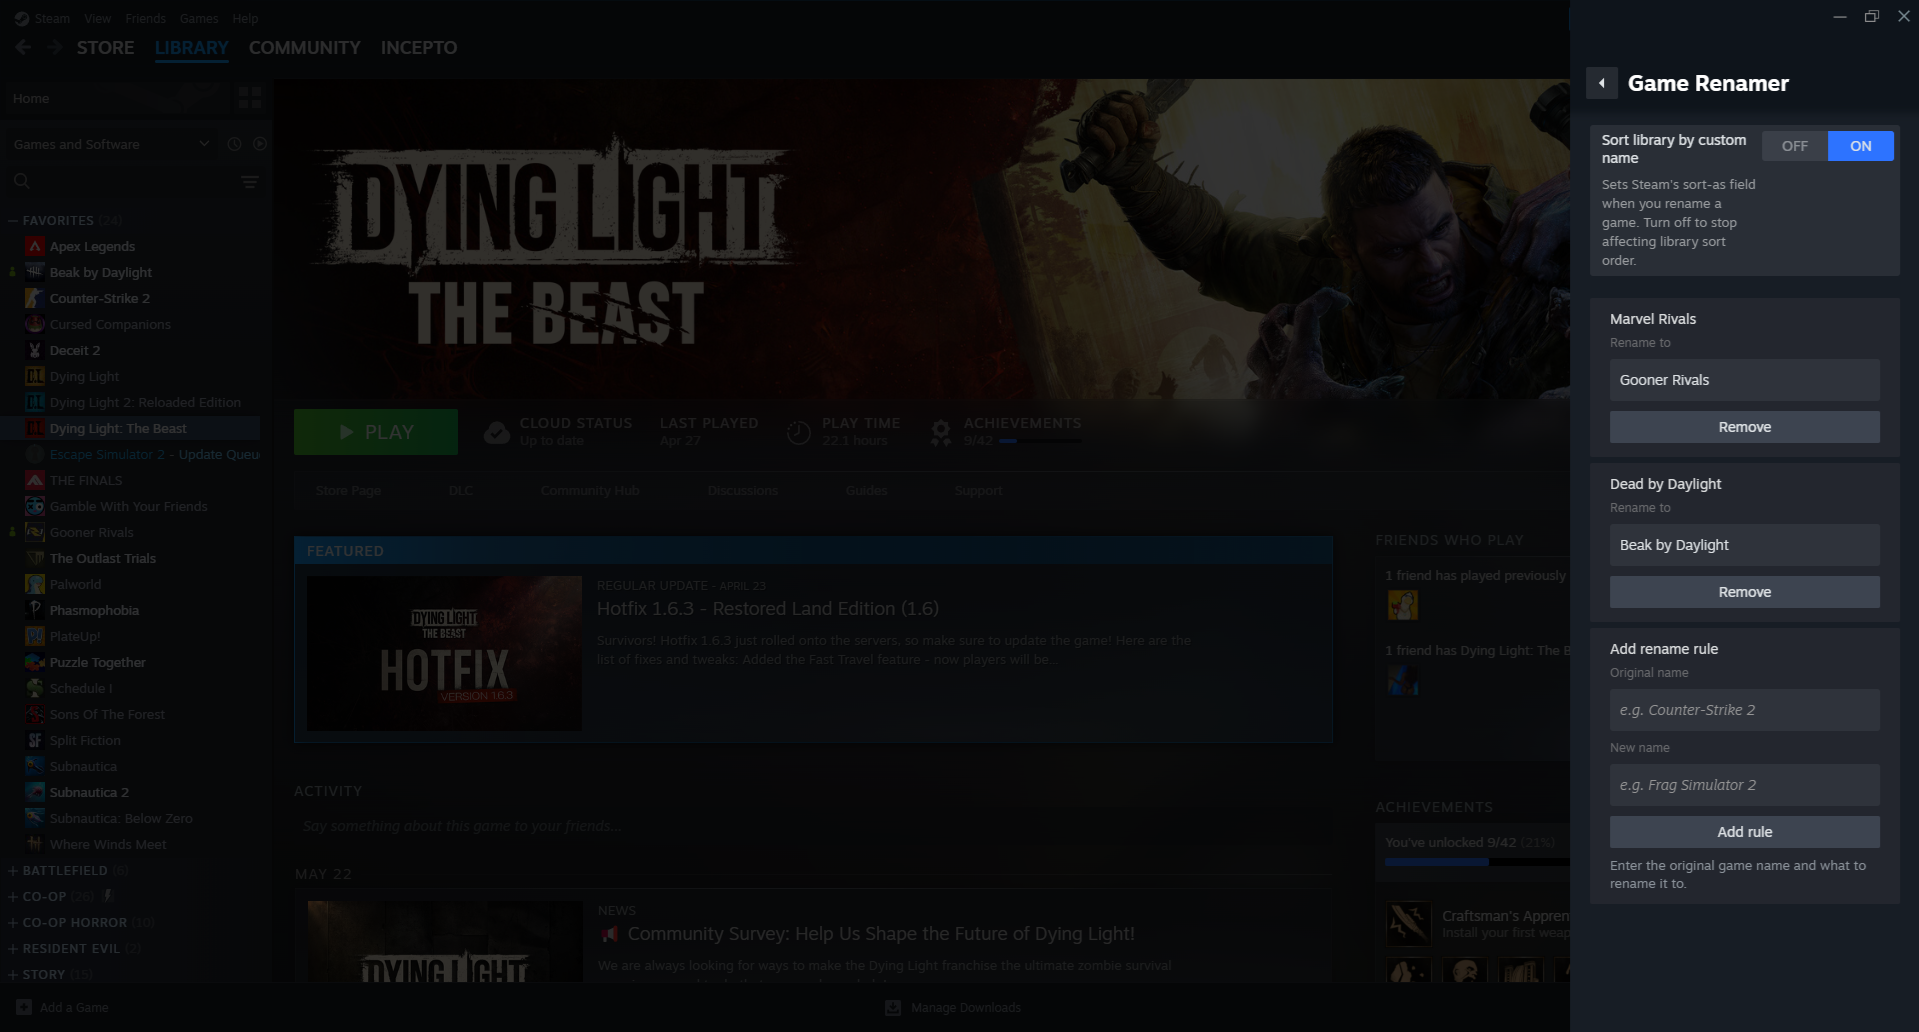
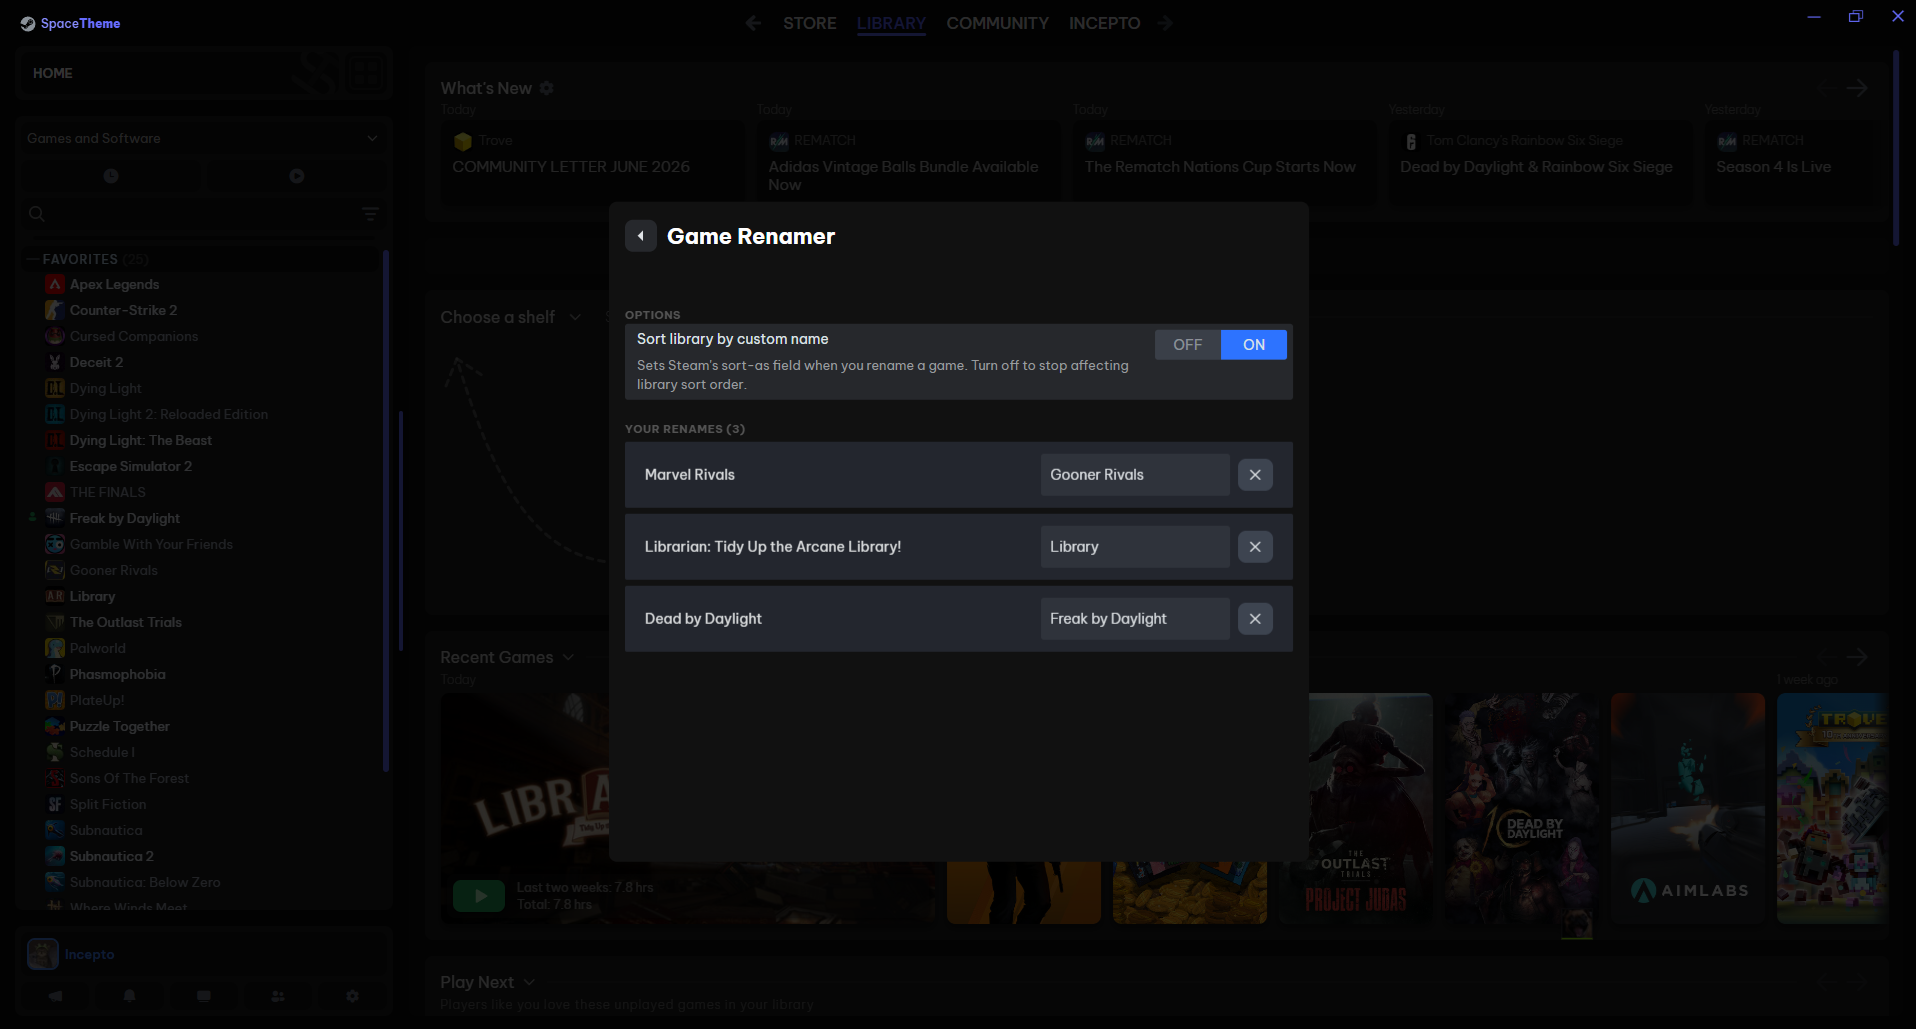
Multi language steam support + config change

diff --git a/frontend/contextMenu.tsx b/frontend/contextMenu.tsx
@@ -53,49 +53,66 @@ export const RenameModal = ({
 
 // ─── Context menu helpers ─────────────────────────────────────────────────────
 
-/**
- * Finds the "Properties…" text leaf inside a newly added DOM node.
- * Returns null if the node isn't a game context menu.
- */
-function findPropertiesLabel(root: HTMLElement): HTMLElement | null {
-    const isProperties = (text: string) => /^properties(\.\.\.|…)?$/i.test(text);
-
-    if (root.children.length === 0 && isProperties(root.textContent?.trim() ?? "")) {
-        return root;
-    }
-
-    for (const el of Array.from(root.querySelectorAll("*")) as HTMLElement[]) {
-        if (el.children.length === 0 && isProperties(el.textContent?.trim() ?? "")) {
-            return el;
-        }
-    }
-
-    return null;
+/** The element's React fiber, or null. */
+function getReactFiber(el: Element): any {
+    const key = Object.keys(el).find(k => k.startsWith("__reactFiber$"));
+    return key ? (el as any)[key] : null;
 }
 
 /**
- * Climbs from `label` to the element that represents the single clickable row.
+ * Steam's localized label for the game context menu's "Manage" submenu.
  *
- * Steam nests labels inside several span wrappers, so `label` is often a deep leaf.
- * The actual row is the first ancestor whose parent contains multiple sibling rows
- * (Play, Manage, Properties, …). Stopping too early would cause the entire menu
- * to be cloned instead of just one row.
+ * Resolved from Steam's own localization system (`#GameAction_Manage`) rather than
+ * matching the English word, so the Manage flyout is found in every UI language. Cached
+ * after the first successful lookup.
  */
-function findMenuRow(label: HTMLElement): HTMLElement {
-    const looksLikeRow = (el: Element) => {
-        const text = el.textContent?.trim() ?? "";
-        return text.length > 0 && text.length <= 100 && !text.includes("\n");
-    };
+let cachedManageLabel: string | null = null;
+function manageLabel(): string | null {
+    if (cachedManageLabel) return cachedManageLabel;
+    const lm = (window as any).LocalizationManager;
+    const resolved = lm?.LocalizeString?.("#GameAction_Manage");
+    if (typeof resolved === "string" && resolved.trim()) cachedManageLabel = resolved.trim();
+    return cachedManageLabel;
+}
 
-    let row = label;
-    for (let depth = 0; depth < 8; depth++) {
-        const parent = row.parentElement;
-        if (!parent) break;
-        const siblingRows = Array.prototype.filter.call(parent.children, looksLikeRow) as Element[];
-        if (siblingRows.length > 1) break;
-        row = parent;
+/**
+ * If `root` is (part of) the Manage submenu flyout, returns one of its item rows;
+ * otherwise null.
+ *
+ * Steam mounts each submenu as its own DOM subtree, and every menu carries its title in
+ * the React fiber as `{ label, children: [...] }`. The flyout's enclosing menu fiber has
+ * `label` equal to the localized "Manage" string, while the top-level menu's enclosing
+ * fiber has the game's name — so matching that label pinpoints the Manage flyout without
+ * reading on-screen text or relying on row order/count. Tracking the *highest* labelled
+ * menu fiber skips the Manage item's own submenu definition nested in the top-level menu
+ * (whose label is also "Manage") and lands on the subtree's true container.
+ */
+function findManageFlyout(root: HTMLElement): HTMLElement | null {
+    const wanted = manageLabel();
+    if (!wanted) return null;
+
+    const item = (root.matches?.('[role="menuitem"]')
+        ? root
+        : root.querySelector('[role="menuitem"]')) as HTMLElement | null;
+    if (!item) return null;
+
+    let menuLabel: string | null = null;
+    for (let fiber = getReactFiber(item), depth = 0; fiber && depth < 15; fiber = fiber.return, depth++) {
+        const props = fiber.memoizedProps;
+        if (props && typeof props.label === "string" && Array.isArray(props.children)) {
+            menuLabel = props.label;
+        }
     }
 
+    return menuLabel === wanted ? item : null;
+}
+
+/** The leaf element inside a menu row that holds its visible text. */
+function findRowLabelLeaf(row: HTMLElement): HTMLElement {
+    if (row.children.length === 0) return row;
+    for (const el of Array.from(row.querySelectorAll("*")) as HTMLElement[]) {
+        if (el.children.length === 0 && (el.textContent?.trim() ?? "")) return el;
+    }
     return row;
 }
 
@@ -148,8 +165,8 @@ function closeContextMenu(container: Element) {
 }
 
 /**
- * Inspects a newly added DOM node and, if it is part of a game context menu,
- * inserts a Rename item above the Properties row.
+ * Inspects a newly added DOM node and, if it is the game's Manage submenu flyout,
+ * inserts a Rename item at the top of it.
  */
 function tryInjectRenameItem(
     root: HTMLElement,
@@ -159,10 +176,9 @@ function tryInjectRenameItem(
 ) {
     if (root.classList?.contains("renamed-item")) return;
 
-    const label = findPropertiesLabel(root);
-    if (!label) return;
+    const row = findManageFlyout(root);
+    if (!row) return;
 
-    const row       = findMenuRow(label);
     const container = row.parentElement;
     if (!container) return;
 
@@ -187,6 +203,7 @@ function tryInjectRenameItem(
 
     // ── Build the clone ──────────────────────────────────────────────────────
 
+    const label     = findRowLabelLeaf(row);
     const labelPath = buildLabelPath(label, row);
     const newItem   = row.cloneNode(true) as HTMLElement;
     newItem.classList.add("renamed-item");
@@ -211,12 +228,12 @@ function tryInjectRenameItem(
         }
     };
 
-    const propertiesPropsEl = findReactPropsElement(label, container);
+    const rowPropsEl = findReactPropsElement(label, container);
 
     newItem.addEventListener("mouseenter", () => {
-        if (propertiesPropsEl) {
-            const propsKey = Object.keys(propertiesPropsEl).find(k => k.startsWith("__reactProps$"))!;
-            const props    = (propertiesPropsEl as any)[propsKey];
+        if (rowPropsEl) {
+            const propsKey = Object.keys(rowPropsEl).find(k => k.startsWith("__reactProps$"))!;
+            const props    = (rowPropsEl as any)[propsKey];
             props.onMouseEnter?.(new MouseEvent("mouseenter", { bubbles: true,  cancelable: true }));
             props.onMouseLeave?.(new MouseEvent("mouseleave", { bubbles: false, cancelable: true }));
         }
@@ -267,16 +284,18 @@ function tryInjectRenameItem(
         );
     });
 
-    container.insertBefore(newItem, row);
+    // Place Rename at the top of the Manage flyout.
+    container.insertBefore(newItem, container.firstElementChild);
 }
 
 /**
  * Injects a "Rename" item into Steam's game context menu for every popup window.
  *
  * Steam reminifies its CSS module class names on every build, so querying by class is
- * fragile. Instead, the "Properties…" row (always present, label never changes) is
- * located by its text and cloned as a styling template, giving correct appearance with
- * no dependency on minified identifiers.
+ * fragile. Instead the Manage submenu flyout is identified through its React fiber (its
+ * menu label matches Steam's localized "Manage" string), and one of its rows is cloned
+ * as a styling template — giving correct appearance with no dependency on minified
+ * identifiers or on the UI language.
  */
 export function injectContextMenu(doc: Document) {
     let lastRightClickedName:  string        = "";

diff --git a/frontend/dom.ts b/frontend/dom.ts
@@ -43,6 +43,28 @@ export function renameNodes(root: Node, map: RenameMap) {
     }
 }
 
+/** The detail-page title (appDetails.strDisplayName) for an appId, if loaded. */
+function detailsName(appId: number | undefined): string | null {
+    if (appId == null) return null;
+    return (window as any).appDetailsStore?.GetAppData?.(appId)?.details?.strDisplayName ?? null;
+}
+
+/**
+ * The rename map plus an alias for any game whose detail-page title differs from its
+ * library name. Some titles are spelled differently in the two places — e.g. the
+ * library shows "Sonic Adventure 2" while the game page shows "Sonic Adventure™ 2".
+ * The rule's key is the library spelling, so without this alias the DOM layer would
+ * never match the header text. Both spellings map to the same custom name.
+ */
+export function withDetailAliases(map: RenameMap): RenameMap {
+    const out: RenameMap = { ...map };
+    for (const [original, renamed] of Object.entries(map)) {
+        const alt = detailsName(state.appIdMap[original]);
+        if (alt && !(alt in out)) out[alt] = renamed;
+    }
+    return out;
+}
+
 /**
  * Applies a rename-map change to every watched document, replacing the previous output
  * (original, or an earlier custom name) with the new one — so already-rendered pages
@@ -53,7 +75,15 @@ export function applyRenameToDocuments(prev: RenameMap, next: RenameMap) {
     for (const key of new Set([...Object.keys(prev), ...Object.keys(next)])) {
         const before = prev[key] ?? key;
         const after  = next[key] ?? key;
-        if (before !== after) transition[before] = after;
+        if (before === after) continue;
+        transition[before] = after;
+        // When a game is newly renamed, also transition its (possibly different)
+        // detail-page spelling so an open game page updates immediately, not just on
+        // the next navigation.
+        if (!(key in prev)) {
+            const alt = detailsName(state.appIdMap[key]);
+            if (alt && alt !== before) transition[alt] = after;
+        }
     }
     if (Object.keys(transition).length === 0) return;
     for (const doc of state.watchedDocuments) renameNodes(doc.documentElement, transition);
@@ -68,27 +98,31 @@ export function applyRenameToDocuments(prev: RenameMap, next: RenameMap) {
 export function watchDocument(doc: Document) {
     if (state.watchedDocuments.has(doc)) return;
     state.watchedDocuments.add(doc);
-    renameNodes(doc.documentElement, state.currentMap);
+    renameNodes(doc.documentElement, withDetailAliases(state.currentMap));
 
     const view = doc.defaultView ?? window;
     let pending: Node[] = [];
     let scheduled = false;
     const flush = () => {
         scheduled = false;
+        const map = withDetailAliases(state.currentMap);
         const nodes = pending;
         pending = [];
-        for (const node of nodes) renameNodes(node, state.currentMap);
+        for (const node of nodes) renameNodes(node, map);
     };
 
     const observer = new MutationObserver((mutations) => {
+        // Compute the aliased map once per batch (it reads appDetailsStore), reused below.
+        let charMap: RenameMap | null = null;
         for (const mutation of mutations) {
             for (const added of mutation.addedNodes) {
                 if (added.nodeType === Node.ELEMENT_NODE && !isIgnored(added)) pending.push(added);
             }
             if (mutation.type === "characterData" && mutation.target.nodeValue && !isIgnored(mutation.target)) {
+                if (!charMap) charMap = withDetailAliases(state.currentMap);
                 const value = mutation.target.nodeValue;
                 const trimmed = value.trim();
-                for (const [original, renamed] of Object.entries(state.currentMap)) {
+                for (const [original, renamed] of Object.entries(charMap)) {
                     if (original && renamed && trimmed === original) {
                         mutation.target.nodeValue = value.replace(original, renamed);
                         break;

diff --git a/frontend/settings.tsx b/frontend/settings.tsx
@@ -22,22 +22,11 @@ const SectionHeader = ({ children }: { children: React.ReactNode }) => (
 
 export const SettingsContent = () => {
     const [map,         setMap        ] = useState<RenameMap>(() => ({ ...state.currentMap }));
-    const [newOriginal, setNewOriginal] = useState("");
-    const [newRenamed,  setNewRenamed ] = useState("");
     const [sortChecked, setSortChecked] = useState(() => state.sortEnabled);
 
     const updateMap = (next: RenameMap) => {
         setMap(next);
         applyMapChange(next);
-    };
-
-    const addEntry = () => {
-        const orig = newOriginal.trim();
-        const repl = newRenamed.trim().slice(0, MAX_NAME_LENGTH);
-        if (!orig || !repl) return;
-        updateMap({ ...map, [orig]: repl });
-        setNewOriginal("");
-        setNewRenamed("");
     };
 
     const removeEntry = (key: string) => {
@@ -54,7 +43,6 @@ export const SettingsContent = () => {
     const rowControls: React.CSSProperties = { display: "flex", gap: "8px", alignItems: "center", width: "100%" };
 
     const entries = Object.entries(map);
-    const canAdd  = newOriginal.trim().length > 0 && newRenamed.trim().length > 0;
 
     return (
         // data-gr-ignore opts this panel out of DOM text rewriting so the rule list
@@ -78,7 +66,7 @@ export const SettingsContent = () => {
             <SectionHeader>Your renames ({entries.length})</SectionHeader>
             {entries.length === 0 ? (
                 <div style={{ fontSize: "13px", opacity: 0.5, padding: "4px 0 8px" }}>
-                    No custom names yet — add one below.
+                    No custom names yet — right-click a game and choose Rename to add one.
                 </div>
             ) : (
                 entries.map(([original, renamed]) => (
@@ -101,27 +89,6 @@ export const SettingsContent = () => {
                     </Field>
                 ))
             )}
-
-            <SectionHeader>Add a rule</SectionHeader>
-            <Field label="Original name" description="The game's real name, exactly as Steam shows it." bottomSeparator="standard">
-                <TextField
-                    style={fullWidth}
-                    placeholder="e.g. Counter-Strike 2"
-                    value={newOriginal}
-                    onChange={(e: React.ChangeEvent<HTMLInputElement>) => setNewOriginal(e.currentTarget.value)}
-                />
-            </Field>
-            <Field label="Custom name" bottomSeparator="none">
-                <TextField
-                    style={fullWidth}
-                    placeholder="e.g. Frag Simulator 2"
-                    value={newRenamed}
-                    onChange={(e: React.ChangeEvent<HTMLInputElement>) => setNewRenamed(e.currentTarget.value.slice(0, MAX_NAME_LENGTH))}
-                />
-            </Field>
-            <DialogButton style={{ ...fullWidth, marginTop: "8px" }} disabled={!canAdd} onClick={addEntry}>
-                Add rule
-            </DialogButton>
 
         </div>
     );
